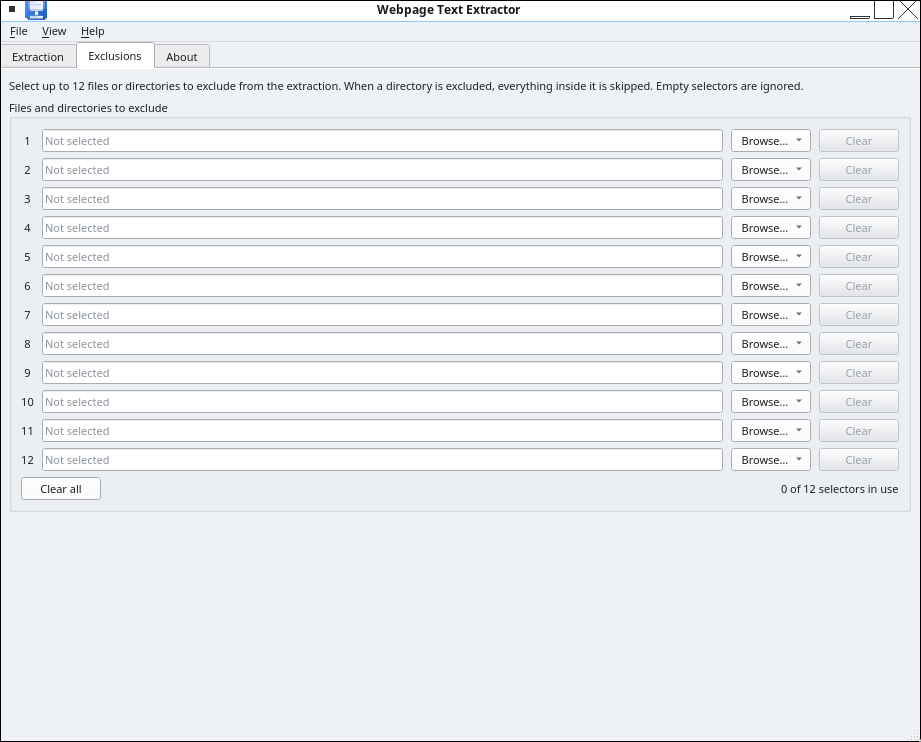
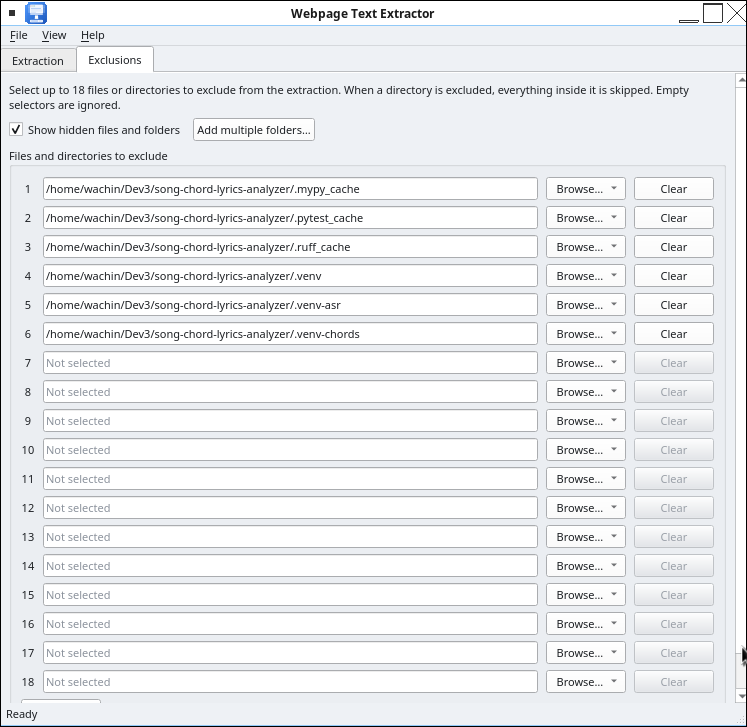
update-readme

diff --git a/README_ES.md b/README_ES.md
@@ -1,10 +1,16 @@
+> **🇬🇧 Versión en inglés:** [README.md](README.md) — English version of this document.
+
 # webpage-text-extractor
+
+<p align="center">
+  <img src="images/01-webpage-text-extractor.png" width="180" alt="Icono de Webpage Text Extractor">
+</p>
 
 **Extrae todo el texto de una carpeta — como una página web guardada con `Ctrl + S` en Chrome — y lo concatena en un único archivo `.txt` listo para enviar a un agente de IA.**
 
 [![Python](https://img.shields.io/badge/Python-3.6%2B-blue.svg)](https://www.python.org/)
-[![License: MIT](https://img.shields.io/badge/License-MIT-green.svg)](LICENSE)
-[![Sin dependencias](https://img.shields.io/badge/dependencias-ninguna-orange.svg)](#requisitos)
+[![Licencia: GPL-3.0](https://img.shields.io/badge/License-GPL--3.0-blue.svg)](LICENSE)
+[![Sin dependencias](https://img.shields.io/badge/dependencies-ninguna-orange.svg)](#requisitos)
 
 ---
 
@@ -20,7 +26,7 @@ El flujo es este:
 4. Ejecutas este script sobre esa carpeta.
 5. Obtienes **un solo archivo `.txt`** con el contenido legible de todos los archivos de texto, claramente separado por encabezados.
 
-Ese archivo `.txt` es mucho más fácil de manejar: lo adjuntas a tu agente de IA, lo pegas en un chat o lo procesas como quieras, sin tener que enviar decenas de archivos sueltos.
+Ese archivo `.txt` es mucho más fácil de manejar: lo adjuntas a tu agente de IA, lo pegas en un chat, o lo procesas como quieras, sin tener que enviar decenas de archivos sueltos.
 
 ## Características
 
@@ -50,11 +56,11 @@ python3 --version
 ## Instalación
 
 ```bash
-git clone https://github.com/TU_USUARIO/webpage-text-extractor.git
+git clone https://github.com/wachin/webpage-text-extractor.git
 cd webpage-text-extractor
 ```
 
-No hay nada más que instalar. 
+No hay nada más que instalar.
 
 ## Interfaz gráfica (PyQt6)
 
@@ -91,6 +97,12 @@ python extract_text_gui.py
 - **Internacionalización**: la interfaz está en inglés y todas las cadenas usan `tr()`, lista para traducir con [Qt Linguist](https://doc.qt.io/qt-6/linguist-index.html).
 
 El icono del programa es [`icons/webpage-text-extractor.svg`](icons/webpage-text-extractor.svg), un SVG sencillo (sin filtros ni efectos raster) que puedes editar con [Inkscape](https://inkscape.org/).
+
+### Captura de pantalla
+
+**Pestaña Exclusiones** — 18 selectores, *Mostrar archivos y carpetas ocultos* para revelar elementos como `.git`, y *Agregar varias carpetas…* para rellenar varios selectores de una vez:
+
+![Pestaña Exclusiones de la interfaz gráfica](images/02-exclusions.png)
 
 ### Traducir la interfaz
 
@@ -146,7 +158,7 @@ Descargas/
     └── ...
 ```
 
-Ejecutas:
+Ejecuta:
 
 ```bash
 python extract_text.py "Descargas/12 AI Blogs for Keeping Up With AI Trends in 2026 _ DigitalOcean" -o blog_ai.txt -v
@@ -163,7 +175,7 @@ Análisis completado: 22 archivos de texto, 3 binarios/omitidos.
 El informe se ha guardado en blog_ai.txt.
 ```
 
-Y `blog_ai.txt` queda con este formato:
+Y `blog_ai.txt` quedará con este formato:
 
 ```
 --- Contenido del archivo de texto: Descargas/.../12 AI Blogs ....html ---
@@ -171,7 +183,7 @@ Y `blog_ai.txt` queda con este formato:
 <html lang="en" ...>
 ...
 
---- Contenido del archivo de texto: Descargas/..._files/6994b812b10824a2.css ---
+--- Contenido del archivo de texto: Descargas/..._files/6994b812b10824a2.css
 ...
 
 --- Archivo no de texto: Descargas/..._files/images(6) ---

diff --git a/README.md b/README.md
@@ -2,10 +2,10 @@
 
 # webpage-text-extractor
 
-**Extract all text from a folder — like a web page saved with `Ctrl + S` in Chrome — and concatenate it into a single `.txt` file ready to send to an AI agent.**
+**Extract all text from a folder — like a web page saved with `Ctrl + S` in Chrome o from a git repo — and concatenate it into a single `.txt` file ready to send to an AI agent.**
 
 [![Python](https://img.shields.io/badge/Python-3.6%2B-blue.svg)](https://www.python.org/)
-[![License: MIT](https://img.shields.io/badge/License-MIT-green.svg)](LICENSE)
+[![License: GPL-3.0](https://img.shields.io/badge/License-GPL--3.0-blue.svg)](LICENSE)
 [![No dependencies](https://img.shields.io/badge/dependencies-none-orange.svg)](#requirements)
 
 ---
@@ -52,7 +52,7 @@ python3 --version
 ## Installation
 
 ```bash
-git clone https://github.com/YOUR_USER/webpage-text-extractor.git
+git clone https://github.com/wachin/webpage-text-extractor.git
 cd webpage-text-extractor
 ```
 
@@ -83,6 +83,9 @@ The project also includes a multi-platform GUI (Windows, Linux and macOS): [`ext
 python extract_text_gui.py
 ```
 
+![](images/01-webpage-text-extractor.png)
+
+
 ### Features
 
 - **Extraction tab**: selectors for the input folder, the output folder and the output file, with a progress bar and an execution log.
@@ -93,6 +96,12 @@ python extract_text_gui.py
 - **Internationalization**: the interface is written in English and every string uses `tr()`, ready to be translated with [Qt Linguist](https://doc.qt.io/qt-6/linguist-index.html).
 
 The program icon is [`icons/webpage-text-extractor.svg`](icons/webpage-text-extractor.svg), a plain SVG (no filters or raster effects) that you can edit with [Inkscape](https://inkscape.org/).
+
+### Screenshot
+
+**Exclusions tab** — 18 selectors, *Show hidden files and folders* to reveal entries such as `.git`, and *Add multiple folders…* to fill several selectors at once:
+
+![Exclusions tab of the graphical interface](images/02-exclusions.png)
 
 ### Translating the interface
 
